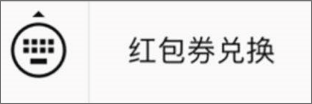
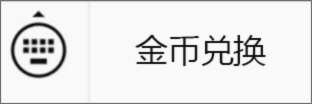
赚金

Changed region(s): [[0.4038, 0.3173, 0.8942, 0.6635]]

diff --git a/src/views/task/detail.vue b/src/views/task/detail.vue
@@ -277,7 +277,6 @@ export default {
     /** 重新下载 **/
     resetDownload () {
       this.copy(() => {
-        console.log(this.taskDetail.download.split('?')[0])
         location.href = this.taskDetail.download.split('?')[0]
       })
     }

diff --git a/src/views/task/components/taskInfo/taskInfo.vue b/src/views/task/components/taskInfo/taskInfo.vue
@@ -60,7 +60,7 @@ export default {
     }
   },
   mounted () {
-    const { currentIndex } = this.$route.query
+    const { currentIndex = 1 } = this.$route.query
     this.handclick(currentIndex)
   }
 }
